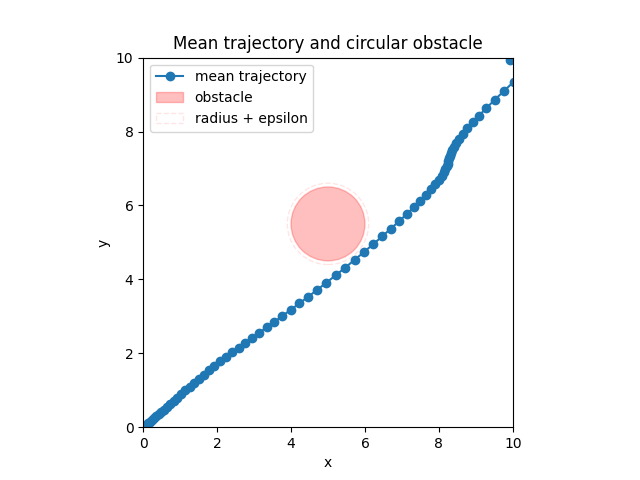
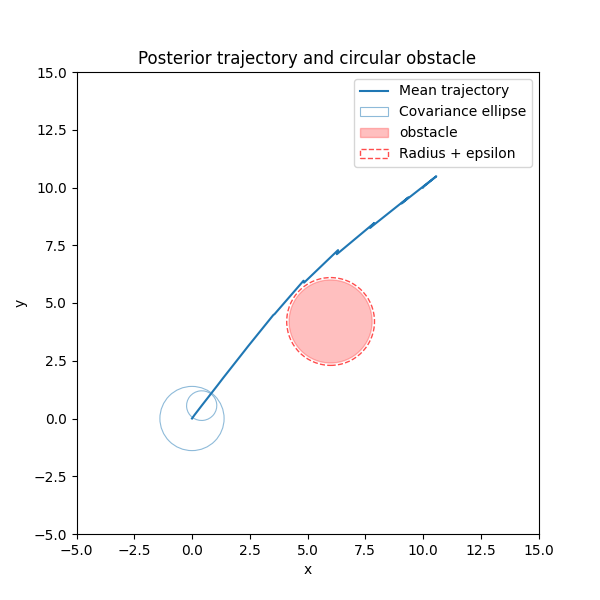
corrected q_cov initialization

diff --git a/vgpmp/models/markov_vgp.py b/vgpmp/models/markov_vgp.py
@@ -5,21 +5,21 @@ from gpflow import Parameter
 from gpflow.models import GPModel
 from gpflow.models.training_mixins import InternalDataTrainingLossMixin
 from gpflow.models.util import data_input_to_tensor
-from gpflow.config import default_float
+from gpflow.config import default_float, default_jitter
 
 from ..base import RegressionData, InputData, MeanAndVariance
 from ..kernels import GaussMarkovKernel
 from ..likelihood import PlanningLikelihood
 from ..kulback_liebler import gauss_markov_kl
-from ..utils.linear_algebra import BlockTriDiagCovariance, BlockBiDiagFactor, covariance_from_bidiag_factor
 from ..posterior import GaussMarkovPosterior
+from ..utils.linear_algebra import BlockTriDiagCovariance, BlockBiDiagFactor, covariance_from_bidiag_factor
+from ..utils.math import softplus_inverse
 
 
 class MarkovVGP(GPModel, InternalDataTrainingLossMixin):
     def __init__(
         self,
         data: RegressionData,
-        mean: tf.Tensor,
         kernel: GaussMarkovKernel,
         likelihood: PlanningLikelihood,
         posterior: GaussMarkovPosterior,
@@ -28,8 +28,6 @@ class MarkovVGP(GPModel, InternalDataTrainingLossMixin):
         if num_latent_gps is None:
             num_latent_gps = self.calc_num_latent_gps_from_data(data, kernel, likelihood)
         super().__init__(kernel=kernel, likelihood=likelihood, num_latent_gps=num_latent_gps)
-
-        self.prior_mean = mean
 
         self.data = data_input_to_tensor(data)
         X_data, _Y_data = self.data
@@ -54,24 +52,40 @@ class MarkovVGP(GPModel, InternalDataTrainingLossMixin):
 
         # Variational mean: free mid points only (anchors clamped to Y endpoints)
         self.q_mean_free = Parameter(
-            self.prior_mean[1:-1, :],
+            _Y_data[1:-1, :],
             shape=(static_num_data - 2, static_num_latent),
         )
 
         # Variational covariance parameterization:
 
-        # Trainable interior diag raw blocks for L: indices 1..N-2 (so count N-2)
-        # Initialize near identity (or use something based on prior scale)
-        init_mid = tf.eye(self.P, dtype=default_float())[None, :, :] * tf.ones((self.N-2, 1, 1), dtype=default_float())
-        self.L_mid_diags_raw = Parameter(init_mid, transform=None)
+        # Trainable interior diag raw blocks for L: indices 1..N-2 (so count N-2).
+        P_static = static_num_latent
+        if P_static is None:
+            raise ValueError("num_latent_gps must be static to build MarkovVGP covariance parameters.")
 
-        # Trainable sub-diagonal blocks L_{i+1,i} for i=0..N-2 (count N-1)
-        init_sub = tf.zeros((self.N-1, self.P, self.P), dtype=default_float())
-        self.L_sub_raw = Parameter(init_sub, transform=None)
+        mid_count = static_num_data - 2
+        sub_count = static_num_data - 1
 
-        # Fixed endpoint diag factors
-        self.L00_fixed = tf.linalg.diag(tf.sqrt(self.anchor_vars))  # (P,P)
-        self.LNN_fixed = tf.linalg.diag(tf.sqrt(self.anchor_vars))  # (P,P)
+        # Helper to undo the softplus used in _ensure_lower_with_positive_diag so that
+        # the transformed diagonal matches a target Cholesky block.
+        def _invert_softplus_diag(L_block: tf.Tensor) -> tf.Tensor:
+            d = tf.linalg.diag_part(L_block)
+            d_raw = softplus_inverse(tf.maximum(d, default_jitter()))
+            return L_block - tf.linalg.diag(d) + tf.linalg.diag(d_raw)
+
+        # Raw params for trainable mids
+        eye_block = tf.eye(P_static, dtype=default_float())
+        eye_raw = _invert_softplus_diag(eye_block)
+        init_mid_raw = tf.tile(eye_raw[None, :, :], multiples=[mid_count, 1, 1])
+        init_sub = tf.zeros((sub_count, P_static, P_static), dtype=default_float())
+
+        self.L_mid_diags_raw = Parameter(init_mid_raw, shape=(mid_count, P_static, P_static), transform=None)
+        self.L_sub_raw = Parameter(init_sub, shape=(sub_count, P_static, P_static), transform=None)
+
+        # Fixed endpoint diag factors (raw, before softplus in _ensure_lower_with_positive_diag)
+        anchor_chol = tf.linalg.diag(tf.sqrt(self.anchor_vars))  # (P,P)
+        self.L00_fixed_raw = _invert_softplus_diag(anchor_chol)  # (P,P)
+        self.LNN_fixed_raw = _invert_softplus_diag(anchor_chol)  # (P,P)
 
         self.posterior = posterior
 
@@ -90,7 +104,7 @@ class MarkovVGP(GPModel, InternalDataTrainingLossMixin):
     def q_cov(self) -> BlockTriDiagCovariance:
         # Assemble full diags_raw: [L00_fixed, L_mid_diags_raw, LNN_fixed]
         diags_raw = tf.concat(
-            [self.L00_fixed[None, :, :], self.L_mid_diags_raw, self.LNN_fixed[None, :, :]],
+            [self.L00_fixed_raw[None, :, :], self.L_mid_diags_raw, self.LNN_fixed_raw[None, :, :]],
             axis=0,
         )  # (N,P,P)
 

diff --git a/vgpmp/likelihood/planning_likelihood.py b/vgpmp/likelihood/planning_likelihood.py
@@ -22,15 +22,15 @@ class PlanningLikelihood:
     """
     def __init__(
         self,
-        dof: int = 2,
+        dof: int,
+        desired_nominal,
         obstacle_center=(5.0, 5.0),
         obstacle_radius=2.0,
-        desired_nominal=None,
         grid_size=10.0,
         epsilon: float = 0.1,
-        sigma_obs: float = 0.2,
         hinge_softness: float = 0.5,
-
+        sigma_obs: float = 0.02,
+        sigma_nominal: float = 0.8,
     ):
         self.dof = dof
 
@@ -44,8 +44,8 @@ class PlanningLikelihood:
         self.enforce_box = False
         self.sigma_box = tf.constant(0.1, dtype=default_float())
 
-        self.sigma_nominal = tf.constant(0.4, dtype=default_float())
-        self.tracking_weight = tf.constant(5.0, dtype=default_float())
+        self.sigma_nominal = tf.constant(sigma_nominal, dtype=default_float())
+        self.tracking_weight = tf.constant(1.0, dtype=default_float())
         self.desired_nominal  = None if desired_nominal  is None else tf.constant(desired_nominal,  dtype=default_float())
 
     def _hinge(self, x: tf.Tensor) -> tf.Tensor:
@@ -90,39 +90,6 @@ class PlanningLikelihood:
             box = tf.zeros_like(coll)
 
         return coll + box
-
-    def _expected_boundary_penalty(self, fmean: tf.Tensor, fvar: Covariance) -> tf.Tensor:
-        """
-        Returns per-time penalty vector shape (N,) with nonzero entries only at k=1 and k=N-2.
-
-        Uses exact identity:
-        E[||X-a||^2] = ||mu-a||^2 + tr(Sigma)
-        for X ~ N(mu, Sigma), using only marginal S_kk.
-        """
-        N = tf.shape(fmean)[0]
-
-        penalties = tf.zeros([N], dtype=default_float())
-
-        # position mean/cov
-        mu_xy = fmean[:, :self.dof]                # (N,dof)
-        S_xy = fvar.diags[:, :self.dof, :self.dof] # (N,dof,dof)
-        tr_S = tf.linalg.trace(S_xy)               # (N,)
-
-        # start penalty at k=1
-        if self.desired_start is not None:
-            diff1 = mu_xy[1] - self.desired_start           # (dof,)
-            e_sq1 = tf.reduce_sum(diff1 * diff1) + tr_S[1]                  # scalar
-            p1 = self.boundary_weight * (e_sq1 / (self.sigma_start ** 2))   # scalar
-            penalties = tf.tensor_scatter_nd_add(penalties, indices=[[1]], updates=[p1])
-
-        # goal penalty at k=N-2
-        if self.desired_goal is not None:
-            diffN = mu_xy[N - 2] - self.desired_goal
-            e_sqN = tf.reduce_sum(diffN * diffN) + tr_S[N - 2]
-            pN = self.boundary_weight * (e_sqN / (self.sigma_goal ** 2))
-            penalties = tf.tensor_scatter_nd_add(penalties, indices=[[N - 2]], updates=[pN])
-
-        return penalties
     
     def _expected_nominal_tracking_penalty(
         self,
@@ -243,7 +210,7 @@ class PlanningLikelihood:
             E_coll = tf.reduce_sum(coll * W2[None, :, :], axis=(1, 2))      # (N,)
             E_track = self._expected_nominal_tracking_penalty(fmean, fvar)
 
-            return E_coll + E_track
+            return - (E_coll + E_track)
 
         elif method == "monte_carlo":
             fsamples = self._sample_posterior(fmean, fvar, nsamples)  # (S,N,P)
@@ -259,7 +226,7 @@ class PlanningLikelihood:
             E_coll = tf.reduce_mean(coll, axis=0)                         # (N,)
             E_track = self._expected_nominal_tracking_penalty(fmean, fvar)
 
-            return E_coll + E_track
+            return - (E_coll + E_track)
 
         else:
             raise NotImplementedError(

diff --git a/markov_planner.py b/markov_planner.py
@@ -49,9 +49,7 @@ if __name__=="__main__":
     num_interior_points = 9
     # times
     t = np.linspace(t0, tN, num_interior_points + 2)
-    X_data = t.reshape(-1, 1).astype(np.float64)         # shape (N,1)
-    # dummy Y_data
-    Y_data = tf.zeros([num_interior_points + 2, 2*dof], dtype=default_float())
+    X_data = t.reshape(-1, 1).astype(np.float64)         # shape (N+1,1)
 
     '''Test Data'''
     num_query_points = 20
@@ -69,7 +67,7 @@ if __name__=="__main__":
         anchor_vars=tf.constant([1e-5, 1e-5, 1e-3, 1e-3], dtype=default_float())
     )
 
-    mean = dynamics.initate_traj(
+    Y_data = dynamics.initate_traj(
         times=X_data,
         start=start,
         goal=goal
@@ -83,12 +81,13 @@ if __name__=="__main__":
     # Build likelihood for a single circular obstacle
     likelihood = PlanningLikelihood(
         dof=dof,
-        obstacle_center=(6.0, 4.0),
-        obstacle_radius=1.0,
-        desired_nominal=mean,
+        desired_nominal=Y_data,
+        obstacle_center=(6.0, 4.5),
+        obstacle_radius=2.0,
         grid_size=10.0,
         epsilon=0.1,
-        sigma_obs=0.10,
+        sigma_obs=0.02,
+        sigma_nominal=0.8,
     )
 
     posterior = GaussMarkovPosterior(
@@ -98,7 +97,6 @@ if __name__=="__main__":
 
     model = MarkovVGP(
         data=(X_data, Y_data),
-        mean=mean,
         kernel=kernel,
         likelihood=likelihood,
         posterior=posterior,
@@ -108,8 +106,8 @@ if __name__=="__main__":
     #TODO: set trainable parameters and assign appropriate priors to them
 
     '''Training loop'''
-    num_steps = 1000
-    optimizer = tf.optimizers.Adam(learning_rate=0.03, beta_1=0.8, beta_2=0.95)
+    num_steps = 100
+    optimizer = tf.optimizers.Adam(learning_rate=0.05, beta_1=0.8, beta_2=0.95)
     closure = model.training_loss_closure()
     step_iterator = tqdm(range(num_steps))
 

diff --git a/vgpmp/kernels/gauss_markov.py b/vgpmp/kernels/gauss_markov.py
@@ -38,12 +38,11 @@ class GaussMarkovKernel:
         self.K0_inv = tf.linalg.cholesky_solve(self.K0_chol, self.I)
         self.KN_inv = None
 
-        ## Dynamics matrices
-        # TODO: get_matrices now return tensors and not lists
-        self.Phi = dynamics.get_transition_matrices(self.dt)  # length N-1, each (P,P)
-        self.Q = [Qi for Qi in dynamics.get_noise_matrices(self.dt)]  # length N-1
-        self.Qinv = [Qinv_i for Qinv_i in dynamics.get_inverse_noise_matrices(self.dt)]  # length N-1
-        self.u = dynamics.get_control_vectors(self.dt)  # length N-1, each (P,)
+        ## Dynamics matrices: (N,P,P)
+        self.Phi = dynamics.get_transition_matrices(self.dt)
+        self.Q = dynamics.get_noise_matrices(self.dt)
+        self.Qinv = dynamics.get_inverse_noise_matrices(self.dt)
+        self.u = dynamics.get_control_vectors(self.dt)
 
         # Precision matrix blocks
         self.Kinv = self._build_Kinv_blocks()
@@ -135,7 +134,7 @@ class GaussMarkovKernel:
 
         return BlockTriDiagMatrix(diags=diags_ta.stack(), sub_diags=sub_ta.stack())
 
-    def _build_covariance_from_precision(self, J: BlockTriDiagMatrix) -> "BlockTriDiagCovariance":
+    def _build_covariance_from_precision(self, J: BlockTriDiagMatrix) -> BlockTriDiagCovariance:
         """
         Convert precision J (block tri-diagonal) into covariance K = J^{-1}, returning
         ONLY the block-tridiagonal part of K:

diff --git a/vgpmp/utils/math.py b/vgpmp/utils/math.py
@@ -1,0 +1,16 @@
+import tensorflow as tf
+from gpflow.config import default_float
+
+def softplus_inverse(y: tf.Tensor) -> tf.Tensor:
+    """
+    Numerically stable inverse of softplus for y>0:
+        s^{-1}(y) = log(exp(y) - 1)
+    For large y this approximates y, so clamp the branch to avoid overflow.
+    """
+    y = tf.convert_to_tensor(y, dtype=default_float())
+    large = tf.math.log(tf.float64.max) if y.dtype == tf.float64 else tf.math.log(tf.float32.max)
+    return tf.where(
+        y > 20.0,
+        y,
+        tf.math.log(tf.math.expm1(tf.minimum(y, large))),
+    )
